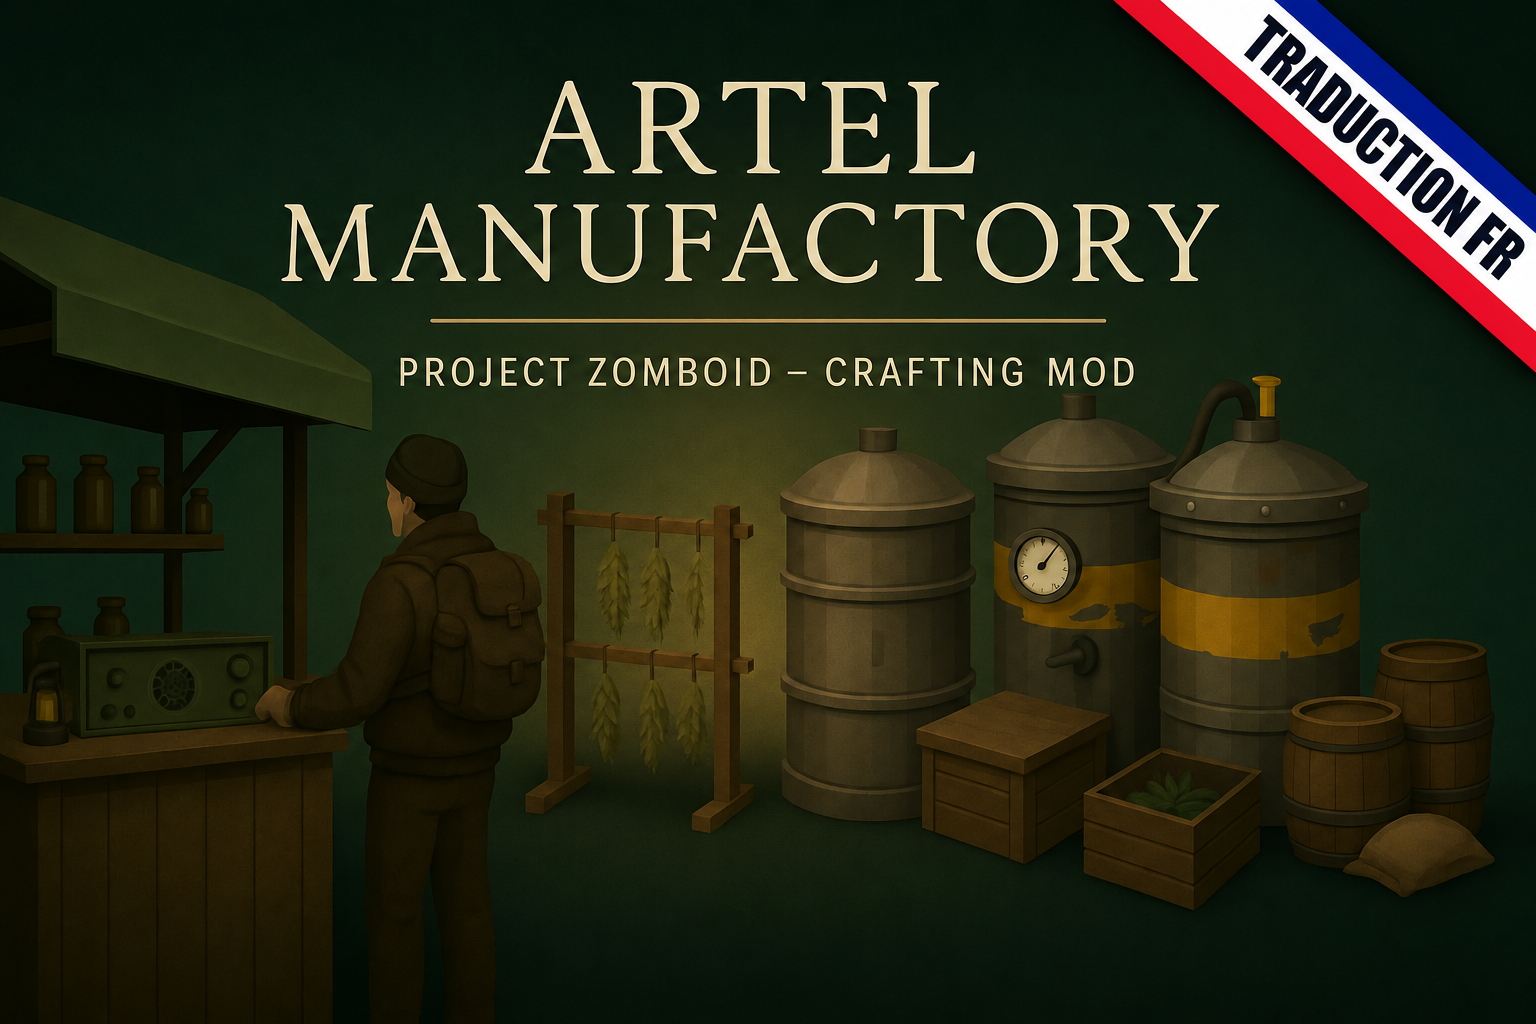
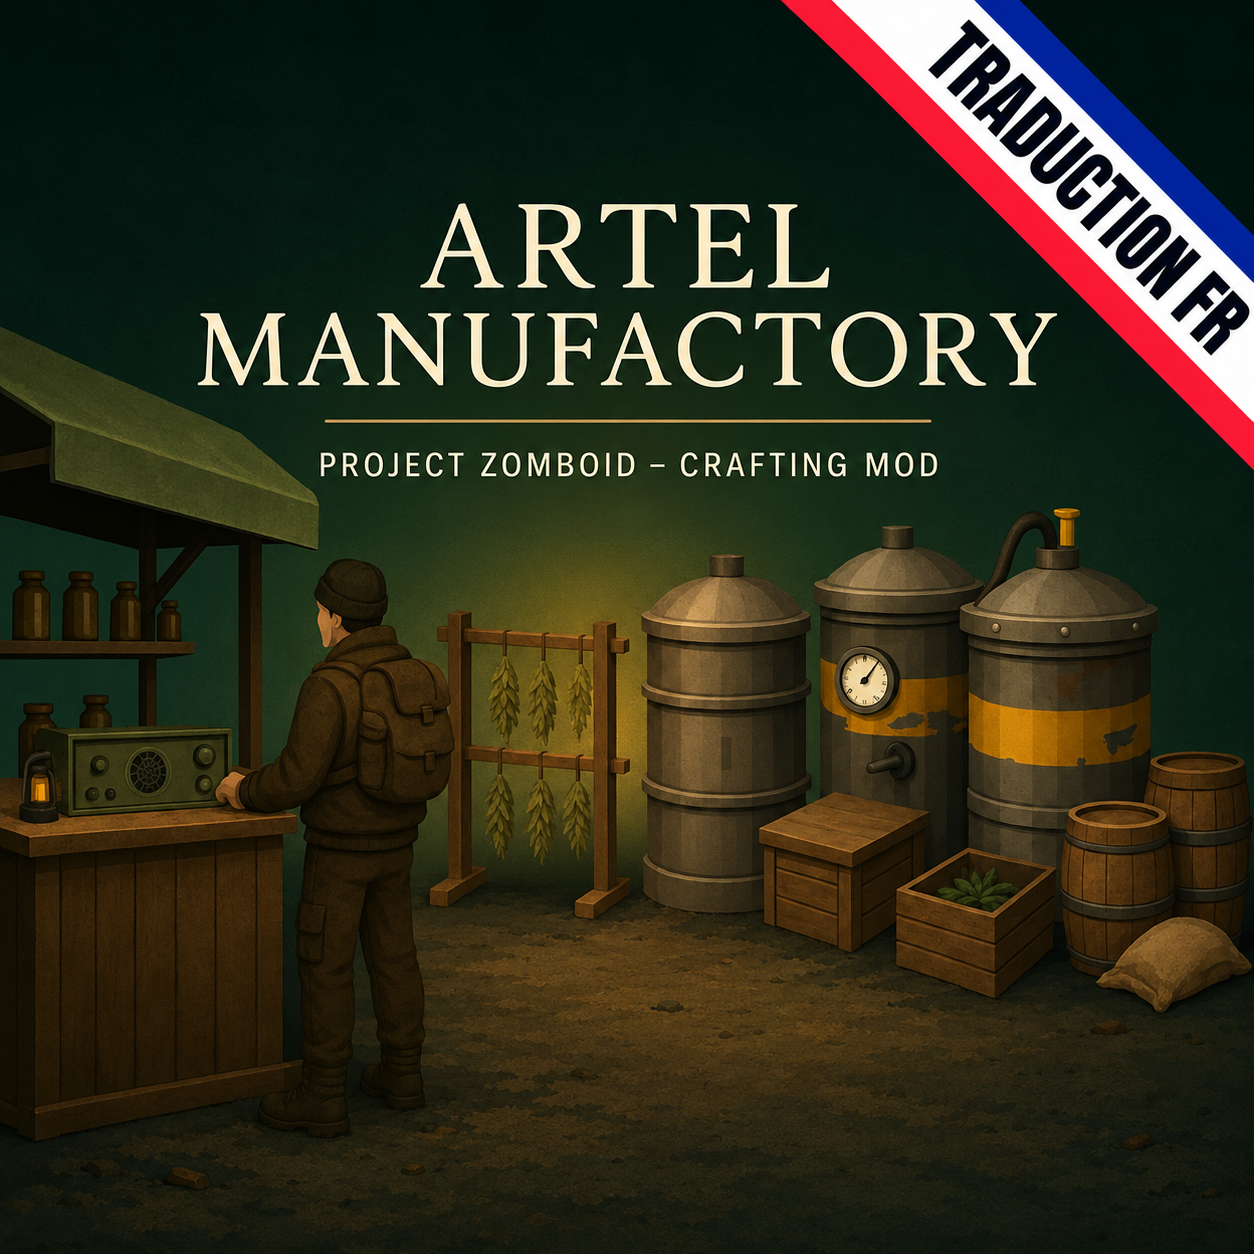
Fix square poster with outpainting and edge-to-edge French ribbon

diff --git a/tools/prepare_assets.py b/tools/prepare_assets.py
@@ -11,16 +11,14 @@ parser = argparse.ArgumentParser(description=__doc__)
 parser.add_argument('image', type=Path, help='Finished poster with French translation ribbon')
 args = parser.parse_args()
 image = Image.open(args.image).convert('RGB')
+if image.width != image.height:
+    raise SystemExit('Poster must be square. Outpaint the artwork before installation; do not add padding.')
 backup = project / 'source' / ('art-backup-' + datetime.now().strftime('%Y%m%d-%H%M%S'))
 backup.mkdir(parents=True, exist_ok=False)
 for old in (mod / 'poster.png', project / 'preview.png'):
     if old.is_file():
         shutil.copy2(old, backup / old.name)
 image.save(mod / 'poster.png')
-# Preserve the source poster's composition when fitting the square preview.
-preview = Image.new('RGB', (512, 512), image.getpixel((0, 0)))
-thumb = image.copy()
-thumb.thumbnail((512, 512), Image.Resampling.LANCZOS)
-preview.paste(thumb, ((512-thumb.width)//2, (512-thumb.height)//2))
+preview = image.resize((512, 512), Image.Resampling.LANCZOS)
 preview.save(project / 'preview.png')
 print(f'Poster and preview installed. Previous assets: {backup}')

diff --git a/CHANGELOG.md b/CHANGELOG.md
@@ -1,5 +1,13 @@
 # Changelog
 
+## 1.0.1 — 2026-10-07
+
+### Workshop artwork
+
+- Reworked the original landscape poster into a square cover using outpainting to extend the workshop scene.
+- Moved the French translation ribbon to the square cover's top-right edges.
+- Updated the Workshop preview to fill the entire square without padding.
+
 ## 1.0.0 — 2026-10-07
 
 ### Initial release
